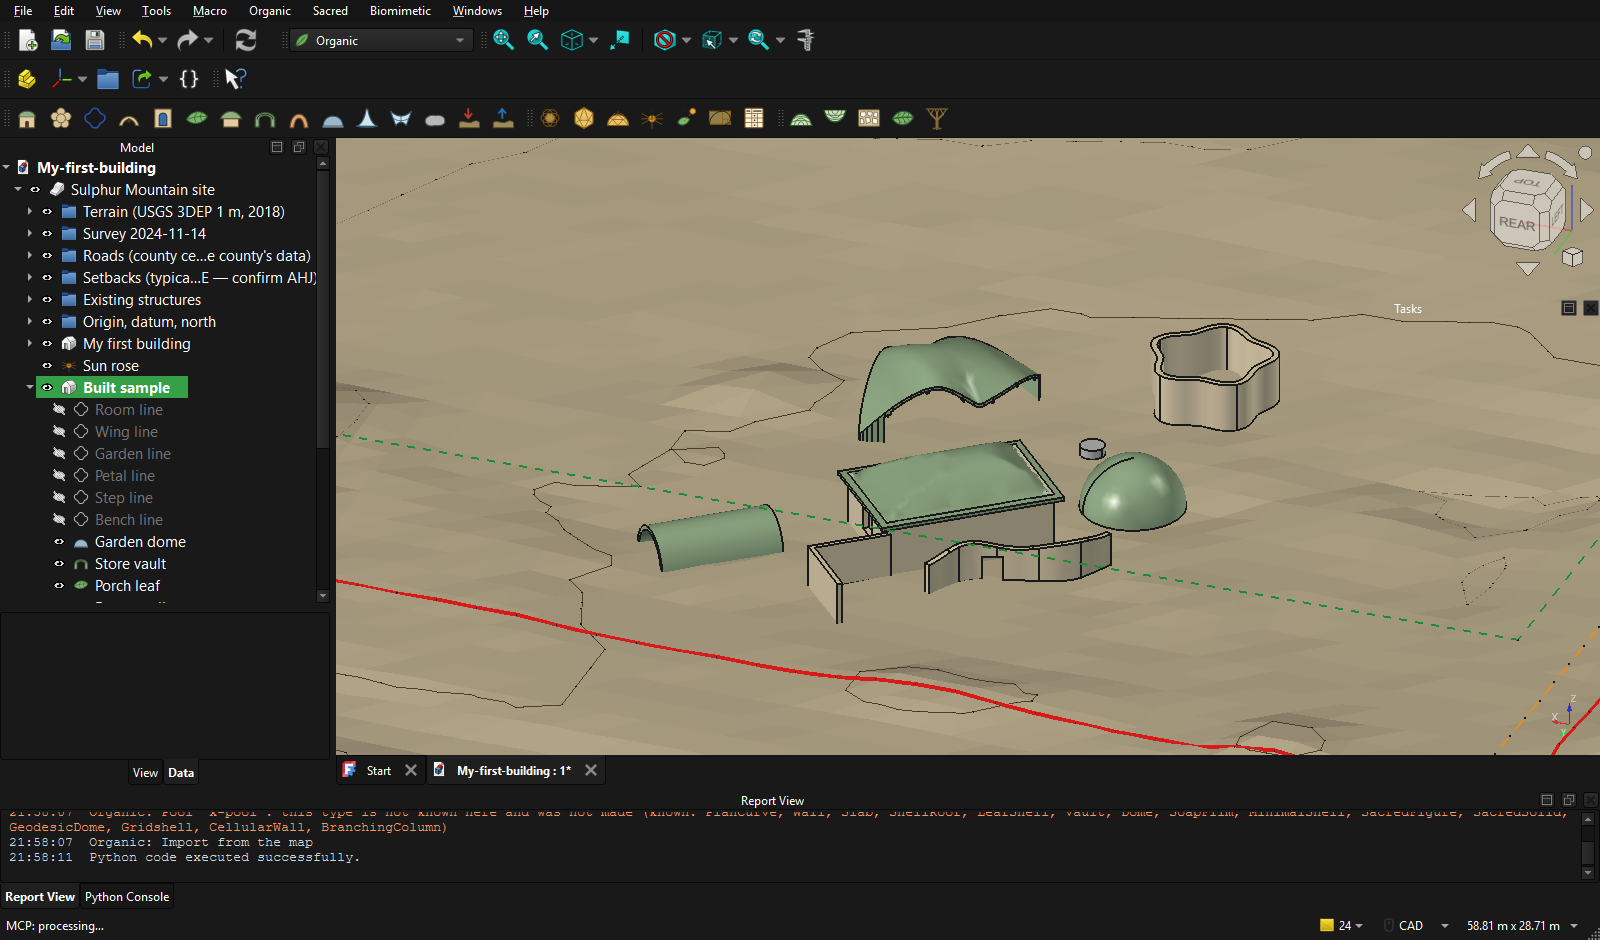
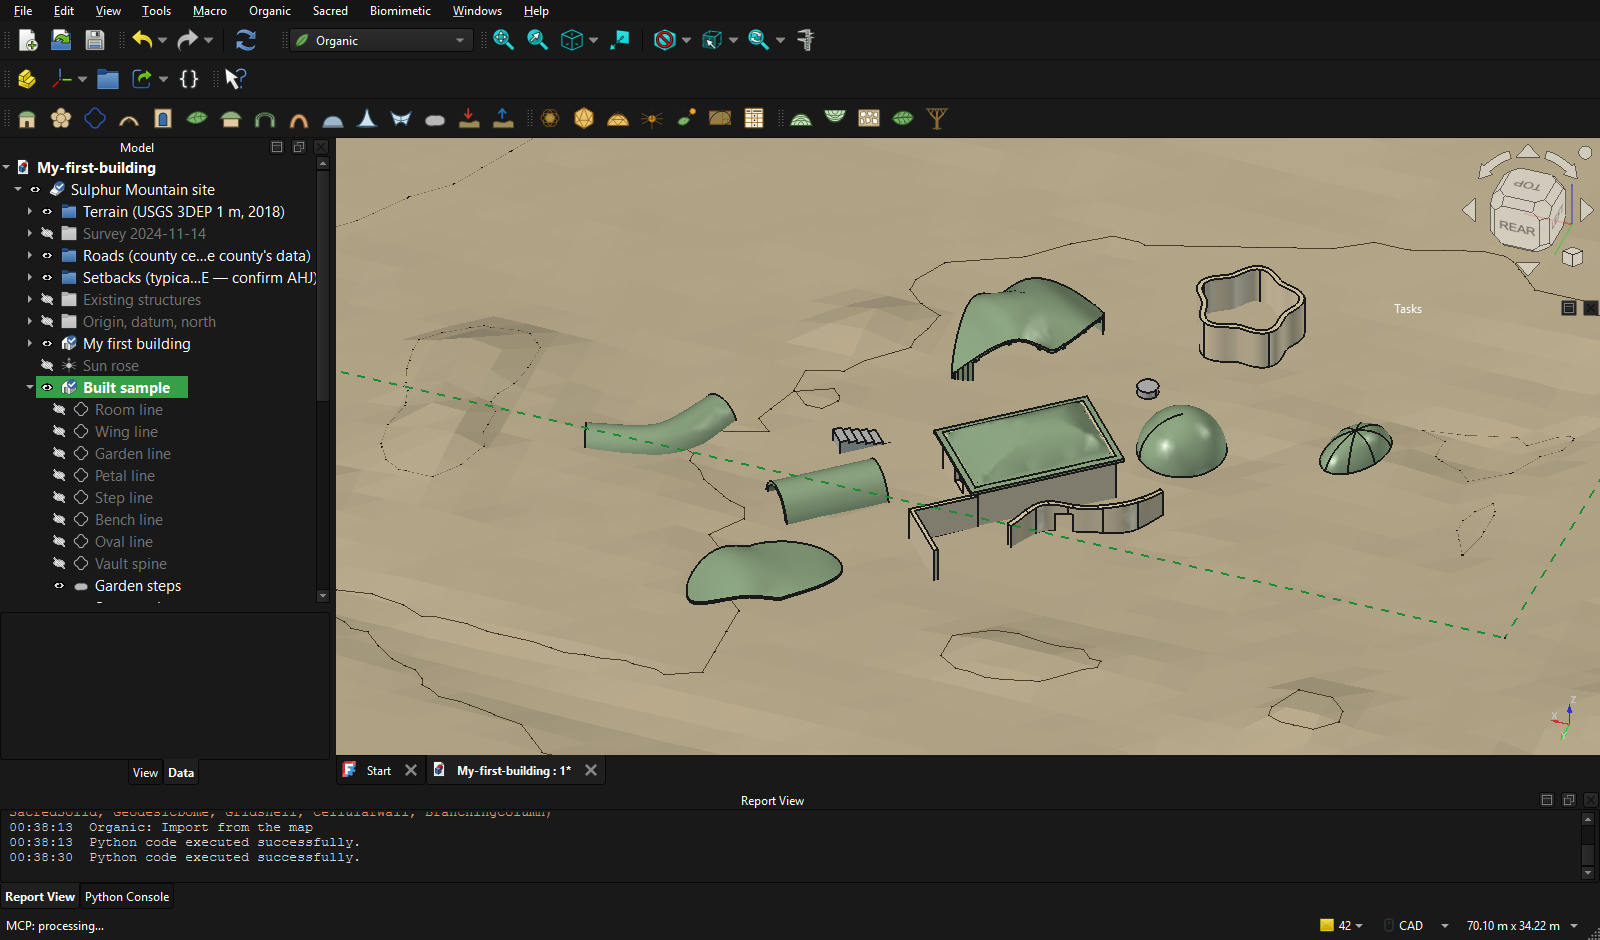
Organic: the Import from the map picture retaken on the 24-piece sample (the vault along a curve, the steps, the oval dome); the log says so

diff --git a/UPDATES.md b/UPDATES.md
@@ -20,7 +20,7 @@ Entry shape: date/time · phase · what was done · commit sha · files written 
 - **Four things differed in the window and were fixed at the root:** (1) a wall's waved or arched top was sometimes not cut and the wall still called valid (24 of 120 trial walls): the cut now clears the top line by 0.5 m and is held against the volume the wall must have, a wall that does not hold it is refused; (2) the same building had other triangles in the window than in the console and after a move: meshes are sized by the solid's own geometry, the pavilion is 30,944 triangles everywhere; (3) a box read from display triangles (66 mm off) failed a check in the window only; (4) Turn to the sun's question window stopped the connector for 20 minutes: the pass answers it from a timer.
 - **The site template** built in the window: `Documents\SulphurMountain\SulphurMountain-site.FCStd`; `check_site.py` there 27 checks, 12 of 12 forgeries. **The connector starts with FreeCAD** (`auto_start_rpc` true; it answered in the FreeCAD Johny opened).
 - **`freecad\QUICKSTART.md`** for Johny, one page with pictures from that run; a copy with its pictures in `exchange\house\QUICKSTART-FreeCAD.md`. **`agents\EDITOR-AGENT.md`**, FreeCAD section: all 27 buttons with command names, what they need, every property and default.
-- **Import from the map** (button 15) and **`freecad\realize.py`** (no window; one `REALIZE` line of JSON, exit 0 or 1): a `built/1` file rebuilt from the workbench's own objects. E's two small things: a `Points` curve is the map's own smooth curve, span for span; `source_path` is in the `.json`. E's five kinds: a leaf's `Asymmetry`, an oval dome (`StretchX`, `StretchY`), a vault along a drawn curve (`Base`), a `Steps` object (IfcStair), a piece's `turn`; and a piece's `land` readings are carried through as written. In the result `notes` is what the records say that the files do not; `site_notes` what the map's files say of the place. Measured: a room of a round wall with a door, a floor and a dome 2.7 to 3.0 s for the whole process; the 24-piece sample 45 to 65 s.
+- **Import from the map** (button 15) and **`freecad\realize.py`** (no window; one `REALIZE` line of JSON, exit 0 or 1): a `built/1` file rebuilt from the workbench's own objects. E's two small things: a `Points` curve is the map's own smooth curve, span for span; `source_path` is in the `.json`. E's five kinds: a leaf's `Asymmetry`, an oval dome (`StretchX`, `StretchY`), a vault along a drawn curve (`Base`), a `Steps` object (IfcStair), a piece's `turn`; and a piece's `land` readings are carried through as written. In the result `notes` is what the records say that the files do not; `site_notes` what the map's files say of the place. Measured: a room of a round wall with a door, a floor and a dome 2.7 to 3.0 s for the whole process; the 24-piece sample 45 to 65 s. Added 00:40: the button pressed in the window on the 24-piece sample made 23 pieces (the 24th is of a type it does not know, and it says so), 15 valid solids, in 49 s; the picture `docs\plans\organic\buttons\27-import-from-the-map.png` is retaken from that press (the earlier one showed the 17-piece sample) and shows the vault bent along its curve, the steps and the oval dome.
 - **The envelope.** "Send to the map" reads C's `build-envelope.geojson` at every vertex of the building in plan and writes what it holds there (`envelope` in the `.json`, lines in the report view). On the pavilion it read 66 % under protected oaks. **The pavilion was moved at 23:45 to 89 m west, 24 m north of the anchor** (was 112 m west, 31 m north): a disc of its reach (11.5 m) clear of every no-building polygon, on one of the flattest such grounds (the ground rises and falls 0.60 m under a disc of 9 m). Built and sent from the window: lng −119.156328273, lat 34.433316352, altitude −5.3412 m (420.2888 m), turned 30° clockwise; road 38.65 m, easement 45.74 m, nearest existing building 79.17 m; `envelope` buildable 1.0, nothing barred; 30,944 triangles, the same as before. C rewrote the envelope three times between 23:54 and 23:59 (a `setback` kind, per-edge setbacks); read again at 00:00 the pavilion is still wholly inside the buildable area and in no no-building kind.
 - **Checks, in the window and in the console, each with its forgeries, on the final code:** `check_organic.py` 44 checks, 24 of 24; `check_toolbar.py` 155, 34 of 34; `check_import.py` 30, 39 of 39; `check_site.py` on the real site file against the pack on this PC 27, 12 of 12 in the window (console: 26, 11 of 11, its J needs the window). The installed workbench equals the repository (39 files, by SHA-256). FreeCAD is left as Johny had it: no document open, its window's size and place as before.
 - **Three faults of my own, found by the last runs and fixed:** (1) `realize.py` put the lines about the place (the envelope) into `notes`; a sample under oaks came back with five notes for two and `check_import` failed, rightly: now `notes` and `site_notes`. (2) `check_site.py` with forged faults hung for over ten minutes on the real file: a terrain tile the pack on this PC does not have was retried with pauses meant for a network, 7 s for each of 400 points; a local read is not retried now, 13 s for the whole run. (3) my checks left their trial files in the Windows temp folder (see Needs); they remove them now, and the last full run left none.

diff --git a/docs/plans/organic-window-done.md b/docs/plans/organic-window-done.md
@@ -76,6 +76,10 @@ map measured them, slabs, shell roofs, leaf roofs, domes, vaults, steps. For lan
 piece the workbench got: a leaf's `Asymmetry`, a dome's `StretchX` / `StretchY` (an oval
 plan), a vault's `Base` (it follows a drawn curve), a `Steps` object (IfcStair), a piece's
 `turn`. What the map read of the land at a piece (`land`) is carried through as written.
+Pressed in the window on the 24-piece sample (`freecad\samples\built-sample.json`), the
+button made 23 pieces (the 24th is of a type it does not know, and it says so), 15 valid
+solids, in 49 s: picture `organic\buttons\27-import-from-the-map.png`, with the vault bent
+along its curve, the steps and the oval dome.
 `realize.py` prints one line starting with `REALIZE` and ends with 0 or 1; in its result
 `notes` is what the records say that the files do not, `site_notes` what the map's files say
 of the place. Measured: a room of a round wall with a door, a floor and a dome 2.7 to 3.0 s;
